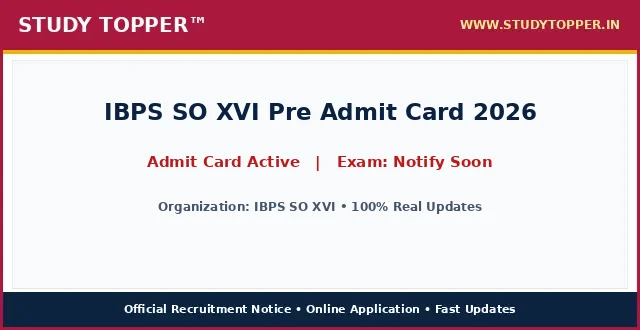
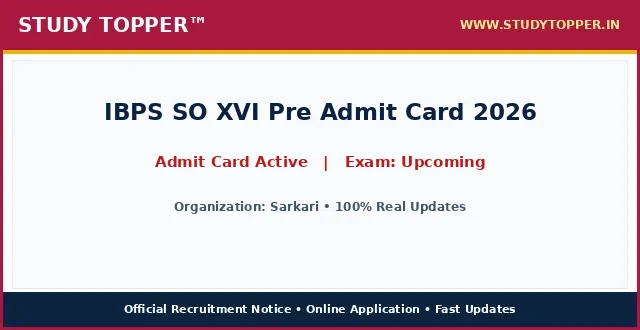
chore(lifecycle): daily auto-sort vacancies and update active dates

Changed region(s): [[0.2188, 0.4545, 0.7812, 0.5152], [0.25, 0.6061, 0.75, 0.6667]]

diff --git a/pages/ibps-so-xvi-2026.html b/pages/ibps-so-xvi-2026.html
@@ -987,12 +987,12 @@ ul.wp-block-latest-posts a:hover {
 <main class="site-main" id="main">
 <div class="gb-container gb-container-b39c368c">
 <h1 class="gb-headline gb-headline-e52a0102 gb-headline-text" style="font-size: 22px; font-weight: 700; color: #0000cd; text-align: left; margin: 8px 0 4px 0; line-height: 1.3; width: 100%; font-family: '-apple-system, BlinkMacSystemFont, 'Segoe UI', Roboto, 'Helvetica Neue', Arial, sans-serif', Times, serif, Hind, sans-serif;">IBPS SO XVI Pre Admit Card 2026</h1>
-<div class="gb-container gb-container-659bd175"><p style="color: #cd0808; font-weight: 700; font-size: 15px; margin: 2px 0 7px 0; text-align: left; font-family: '-apple-system, BlinkMacSystemFont, 'Segoe UI', Roboto, 'Helvetica Neue', Arial, sans-serif', Times, serif, Hind, sans-serif;">Post Date: August 21, 2026 07:50 PM</p></div>
-<p class="gb-headline gb-headline-550ae316 short_Details gb-headline-text" style="width: 100%; max-width: 100%; font-size: 16.8px; line-height: 1.55; color: #000000; text-align: justify; text-justify: inter-word; margin: 8px 0 14px 0; display: block; font-family: '-apple-system, BlinkMacSystemFont, 'Segoe UI', Roboto, 'Helvetica Neue', Arial, sans-serif', Times, serif, Hind, sans-serif;"><strong style="color: #0000cd;">IBPS SO XVI</strong> has officially released the exam city intimation slip and <strong style="color: #cd0808;">IBPS SO XVI Pre Admit Card 2026</strong> for eligible registered candidates. Aspirants appearing for the upcoming computer-based test can download their e-call letters by entering their registration credentials. The hall ticket contains vital examination details including shift timings, reporting hours, test venue coordinates, and exam day guidelines. Candidates must download and print their admit cards early to avoid last-minute server congestion and carry valid photo identification.</p>
+<div class="gb-container gb-container-659bd175"><p style="color: #cd0808; font-weight: 700; font-size: 15px; margin: 2px 0 7px 0; text-align: left; font-family: '-apple-system, BlinkMacSystemFont, 'Segoe UI', Roboto, 'Helvetica Neue', Arial, sans-serif', Times, serif, Hind, sans-serif;">Post Date: August 22, 2026 11:53 AM</p></div>
+<p class="gb-headline gb-headline-550ae316 short_Details gb-headline-text" style="width: 100%; max-width: 100%; font-size: 16.8px; line-height: 1.55; color: #000000; text-align: justify; text-justify: inter-word; margin: 8px 0 14px 0; display: block; font-family: '-apple-system, BlinkMacSystemFont, 'Segoe UI', Roboto, 'Helvetica Neue', Arial, sans-serif', Times, serif, Hind, sans-serif;"><strong style="color: #0000cd;">Sarkari</strong> has officially released the exam city intimation slip and <strong style="color: #cd0808;">IBPS SO XVI Pre Admit Card 2026</strong> for eligible registered candidates. Aspirants appearing for the upcoming computer-based test can download their e-call letters by entering their registration credentials. The hall ticket contains vital examination details including shift timings, reporting hours, test venue coordinates, and exam day guidelines. Candidates must download and print their admit cards early to avoid last-minute server congestion and carry valid photo identification.</p>
 <div class="gb-container gb-container-9849916c"><div class="social-buttons-compact" style="display: flex; justify-content: flex-start; align-items: center; gap: 10px; margin: 10px 0 16px 0; width: 100%;"><a class="social-btn-compact wa" href="https://whatsapp.com/channel/0029Va9xyz" rel="noopener" style="background-color: #00d084; color: #ffffff; padding: 10px 18px; border-radius: 4px; text-decoration: none; font-weight: bold; font-size: 15.5px; display: inline-flex; align-items: center; justify-content: center; height: auto;" target="_blank">WhatsApp</a><a class="social-btn-compact tg" href="https://t.me/studytopperofficial" rel="noopener" style="background-color: #0088cc; color: #ffffff; padding: 10px 18px; border-radius: 4px; text-decoration: none; font-weight: bold; font-size: 15.5px; display: inline-flex; align-items: center; justify-content: center; height: auto;" target="_blank">Telegram</a></div></div>
 <div class="gb-container gb-container-f58e6ca1" style="border: 2px solid #5b032f; border-radius: 4px; overflow: hidden; margin: 15px 0 20px 0; background-color: #ffffff; width: 100%; box-sizing: border-box;">
 <h2 class="gb-headline gb-headline-2ca5a791 gb-headline-text" style="font-size: 16px; font-weight: 700; text-align: center; color: #ef0303; line-height: 1.3; padding: 6px 4px; margin: 0; background: #ffffff; font-family: '-apple-system, BlinkMacSystemFont, 'Segoe UI', Roboto, 'Helvetica Neue', Arial, sans-serif', Times, serif, Hind, sans-serif;">IBPS SO XVI Pre Admit Card 2026 &ndash; Latest Details &amp; Updates</h2>
-<h3 class="gb-headline gb-headline-7d5f86e8 gb-headline-text" style="font-size: 16px; font-weight: 600; text-align: center; color: #009703; line-height: 1.25; margin: 0; padding: 2px 4px 6px 4px; background: #ffffff; font-family: '-apple-system, BlinkMacSystemFont, 'Segoe UI', Roboto, 'Helvetica Neue', Arial, sans-serif', Times, serif, Hind, sans-serif;">IBPS SO XVI : Details &amp; Summary</h3>
+<h3 class="gb-headline gb-headline-7d5f86e8 gb-headline-text" style="font-size: 16px; font-weight: 600; text-align: center; color: #009703; line-height: 1.25; margin: 0; padding: 2px 4px 6px 4px; background: #ffffff; font-family: '-apple-system, BlinkMacSystemFont, 'Segoe UI', Roboto, 'Helvetica Neue', Arial, sans-serif', Times, serif, Hind, sans-serif;">Sarkari : Details &amp; Summary</h3>
 <p class="gb-headline gb-headline-79adf169 gb-headline-text" style="margin: 0 0 6px 0; font-family: '-apple-system, BlinkMacSystemFont, 'Segoe UI', Roboto, 'Helvetica Neue', Arial, sans-serif', Times, serif, Hind, sans-serif; text-align: center; font-size: 18px; font-weight: 700;"><a href="/" style="color: #0000ff; text-decoration: underline;">StudyTopper.in</a></p>
 
 <style id="st-post-boxes-responsive-css">
@@ -1025,7 +1025,7 @@ ul.wp-block-latest-posts a:hover {
     <div style="background-color: #5b032f; color: #ffffff; padding: 8px 10px; font-size: 20px; font-weight: 700; text-align: center; font-family: '-apple-system, BlinkMacSystemFont, 'Segoe UI', Roboto, 'Helvetica Neue', Arial, sans-serif', Times, serif, Hind, sans-serif;">Admit Card &amp; Exam Dates</div>
     <div style="padding: 12px 14px; background-color: #ffffff;">
       <ul style="padding-left: 20px; margin: 0; list-style-type: disc; text-align: left; font-size: 14pt; line-height: 1.6; font-family: '-apple-system, BlinkMacSystemFont, 'Segoe UI', Roboto, 'Helvetica Neue', Arial, sans-serif', Times, serif, Hind, sans-serif;">
-        <li><span style="font-size: 14pt;">Application Start Date : <strong>01 July 2026</strong></span></li><li><span style="font-size: 14pt;">Registration Last Date : <span style="color: #ff0000;"><strong>26 July 2026 Extended</strong></span></span></li><li><span style="font-size: 14pt;">Pay Exam Fee Last Date : <span style="color: #ff0000;"><strong>26 July 2026</strong></span></span></li><li><span style="font-size: 14pt;">Correction Date : <strong>29 – 30 July 2026</strong></span></li><li><span style="font-size: 14pt;">Pre Exam Date : <strong>August 2026</strong></span></li><li><span style="font-size: 14pt;">Pre Exam Admit Card : <strong>20 August 2026 Available Now</strong></span></li>
+        
       </ul>
     </div>
   </div>
@@ -1034,7 +1034,7 @@ ul.wp-block-latest-posts a:hover {
     <div style="background-color: #5b032f; color: #ffffff; padding: 8px 10px; font-size: 20px; font-weight: 700; text-align: center; font-family: '-apple-system, BlinkMacSystemFont, 'Segoe UI', Roboto, 'Helvetica Neue', Arial, sans-serif', Times, serif, Hind, sans-serif;">Application / Exam Fee</div>
     <div style="padding: 12px 14px; background-color: #ffffff;">
       <ul style="padding-left: 20px; margin: 0; list-style-type: disc; text-align: left; font-size: 14pt; line-height: 1.6; font-family: '-apple-system, BlinkMacSystemFont, 'Segoe UI', Roboto, 'Helvetica Neue', Arial, sans-serif', Times, serif, Hind, sans-serif;">
-        <li><span style="font-size: 14pt;">For General, OBC, EWS : <strong>Rs 850/-</strong></span></li><li><span style="font-size: 14pt;">For SC, ST, PH : <strong>Rs 175/-</strong></span></li><li><span style="font-size: 14pt;">Payment Mode (Online) : <strong>You can make the payment using the following methods: Debit Card Credit Card Internet Banking IMPS Cash Card / Mobile Wallet</strong></span></li><li><span style="font-size: 14pt;">Candidates must have a 4 : <strong>year Bachelor’s degree in Agriculture, Horticulture, Animal Husbandry, Veterinary Science, Dairy Science, Fishery Science, Pisciculture, Agricultural Marketing & Cooperation, Cooperation & Banking, Agro-Forestry, Forestry, Agricultural Biotechnology, B.Tech. Biotechnology, Food Science, Agriculture Business Management, Food Technology, Dairy Technology, Agricultural Engineering, Sericulture, or Fisheries Engineering from a recognized university or institution.</strong></span></li><li><span style="font-size: 14pt;">Candidates must have a Graduation degree along with a full : <strong>time 2-year MMS (Marketing), MBA (Marketing), or PGDBA/PGDBM/PGPM/PGDM with specialization in Marketing from a recognized university or institution.</strong></span></li>
+        <li><span style="font-size: 14pt;">Bihar Police BPSSC Sub Inspector SI Prohibition Result 2026 Advt. No. : <strong>03/2026</strong></span></li><li><span style="font-size: 14pt;">UP Scholarship Online Form 2026 : <strong>2027</strong></span></li>
       </ul>
       <div style="margin-top: 10px; font-size: 14pt; line-height: 1.5; color: #000000; border-top: 1px dashed #ccc; padding-top: 8px; font-family: '-apple-system, BlinkMacSystemFont, 'Segoe UI', Roboto, 'Helvetica Neue', Arial, sans-serif', Times, serif, Hind, sans-serif;">
         <strong>Mode of Payment / Access:</strong> Online via Net Banking, Debit Card, Credit Card, UPI or Free Candidate Portal.
@@ -1047,10 +1047,10 @@ ul.wp-block-latest-posts a:hover {
 <div class="st-grid-row" style="display: flex; flex-wrap: wrap; width: 100%; border-top: 2px solid #5b032f; margin: 0; padding: 0; box-sizing: border-box;">
   <!-- Left Col: Age Limits -->
   <div class="st-col-half st-col-border-right" style="box-sizing: border-box; vertical-align: top;">
-    <div style="background-color: #046132; color: #ffffff; padding: 8px 10px; font-size: 17px; font-weight: 700; text-align: center; font-family: '-apple-system, BlinkMacSystemFont, 'Segoe UI', Roboto, 'Helvetica Neue', Arial, sans-serif', Times, serif, Hind, sans-serif;">IBPS SO XVI : Age Limits As On 01 August 2026</div>
+    <div style="background-color: #046132; color: #ffffff; padding: 8px 10px; font-size: 17px; font-weight: 700; text-align: center; font-family: '-apple-system, BlinkMacSystemFont, 'Segoe UI', Roboto, 'Helvetica Neue', Arial, sans-serif', Times, serif, Hind, sans-serif;">Sarkari : Age Limits As On 01 August 2026</div>
     <div style="padding: 12px 14px; background-color: #ffffff;">
       <ul style="padding-left: 20px; margin: 0; list-style-type: disc; text-align: left; font-size: 14pt; line-height: 1.6; font-family: '-apple-system, BlinkMacSystemFont, 'Segoe UI', Roboto, 'Helvetica Neue', Arial, sans-serif', Times, serif, Hind, sans-serif;">
-        <li><span style="font-size: 14pt;">Minimum Age : <strong>20 Years</strong></span></li><li><span style="font-size: 14pt;">Maximum Age : <strong>30 Years</strong></span></li>
+        
       </ul>
     </div>
   </div>
@@ -1058,7 +1058,7 @@ ul.wp-block-latest-posts a:hover {
   <div class="st-col-half" style="box-sizing: border-box; vertical-align: top;">
     <div style="background-color: #f53c00; color: #ffffff; padding: 8px 10px; font-size: 20px; font-weight: 700; text-align: center; font-family: '-apple-system, BlinkMacSystemFont, 'Segoe UI', Roboto, 'Helvetica Neue', Arial, sans-serif', Times, serif, Hind, sans-serif;">Hall Ticket Status</div>
     <div style="padding: 24px 10px; background-color: #ffffff; text-align: center;">
-      <span style="font-size: 28px; font-weight: 800; color: #000000; font-family: '-apple-system, BlinkMacSystemFont, 'Segoe UI', Roboto, 'Helvetica Neue', Arial, sans-serif', Times, serif, Hind, sans-serif;">1035 posts</span>
+      <span style="font-size: 28px; font-weight: 800; color: #000000; font-family: '-apple-system, BlinkMacSystemFont, 'Segoe UI', Roboto, 'Helvetica Neue', Arial, sans-serif', Times, serif, Hind, sans-serif;">545 Post</span>
     </div>
   </div>
 </div>
@@ -1070,19 +1070,7 @@ ul.wp-block-latest-posts a:hover {
 <div class="gb-container gb-container-ec1f6e4c">
 <h2 class="gb-headline gb-headline-c7683bda gb-headline-text" style="font-size: 24px; font-weight: 800; text-align: center; color: #ef0303; line-height: 1.35; margin: 20px 0 12px 0; padding: 6px 4px; font-family: '-apple-system, BlinkMacSystemFont, 'Segoe UI', Roboto, 'Helvetica Neue', Arial, sans-serif', Times, serif, Hind, sans-serif;">IBPS SO XVI Pre Admit Card 2026 : Key Overview &amp; Matrix</h2>
 <div class="gb-headline gb-headline-60ccea19 gb-headline-text">
-<table style="border-collapse: collapse; width: 100%; height: 150px;">
-<tbody>
-<tr style="height: 25px;">
-<td colspan="2" style="width: 50%; text-align: center; height: 25px;"><span style="background-color: #000080; color: #ffffff; font-size: 14pt;"><strong> IBPS SO XVI : Admit Card &amp; Exam City Intimation Details </strong></span></td>
-</tr>
-<tr style="height: 25px;">
-<td style="width: 50%; height: 25px; text-align: center;"><span style="font-size: 14pt;"><strong>Category / Particulars</strong></span></td>
-<td style="width: 50%; height: 25px; text-align: center;"><span style="font-size: 14pt;"><strong>Count / Status</strong></span></td>
-</tr>
-<tr><td style="text-align: center;">Hall Ticket Status</td><td style="text-align: center; font-weight: normal; color: inherit;">Available for Download</td></tr><tr><td style="text-align: center;">Exam Mode</td><td style="text-align: center; font-weight: normal; color: inherit;">Computer Based Test (CBT)</td></tr><tr><td style="text-align: center;">Total Posts</td><td style="text-align: center; font-weight: bold; color: #ff0000;">1035 posts</td></tr>
-</tbody>
-</table>
-<p>&nbsp;</p>
+
 <table style="border-collapse: collapse; width: 100%;">
 <tbody>
 <tr>
@@ -1091,32 +1079,13 @@ ul.wp-block-latest-posts a:hover {
 <th style="background-color: #f53c00; color: #ffffff; padding: 6px 10px; text-align: center; border: 1px solid #d35400; font-size: 15px; font-weight: 700; font-family: '-apple-system, BlinkMacSystemFont, 'Segoe UI', Roboto, 'Helvetica Neue', Arial, sans-serif', Times, serif, Hind, sans-serif;">Educational Eligibility Criteria</th>
 </tr>
 <tr>
-<td style="padding: 8px; border: 1px solid #ddd; font-weight: bold;">IT Officer (Scale-I)</td>
-<td style="padding: 8px; border: 1px solid #ddd; text-align: center; font-weight: bold;">301</td>
-<td style="padding: 8px; border: 1px solid #ddd;">Candidates must have a 4-year Engineering/Technology degree in Computer Science, Computer Applications, Information Technology, Electronics, Electronics & Telecommunications, Electronics & Communication, or Electronics & Instrumentation. Alternatively, candidates with a Postgraduate degree in the relevant disciplines or those who have passed the DOEACC ‘B’ Level examination are also eligible.</td>
-</tr><tr>
-<td style="padding: 8px; border: 1px solid #ddd; font-weight: bold;">Agricultural Field Officer (Scale I)</td>
-<td style="padding: 8px; border: 1px solid #ddd; text-align: center; font-weight: bold;">190</td>
-<td style="padding: 8px; border: 1px solid #ddd;">Candidates must have a 4-year Bachelor’s degree in Agriculture, Horticulture, Animal Husbandry, Veterinary Science, Dairy Science, Fishery Science, Pisciculture, Agricultural Marketing & Cooperation, Cooperation & Banking, Agro-Forestry, Forestry, Agricultural Biotechnology, B.Tech. Biotechnology, Food Science, Agriculture Business Management, Food Technology, Dairy Technology, Agricultural Engineering, Sericulture, or Fisheries Engineering from a recognized university or institution.</td>
-</tr><tr>
-<td style="padding: 8px; border: 1px solid #ddd; font-weight: bold;">Rajbhasha Adhikari (Scale I)</td>
-<td style="padding: 8px; border: 1px solid #ddd; text-align: center; font-weight: bold;">89</td>
-<td style="padding: 8px; border: 1px solid #ddd;">Candidates must have a Postgraduate degree in Hindi with English as a subject at the graduation level, or a Postgraduate degree in Sanskrit with both Hindi and English as subjects at the graduation level from a recognized university.</td>
-</tr><tr>
-<td style="padding: 8px; border: 1px solid #ddd; font-weight: bold;">Law Officer (Scale I)</td>
-<td style="padding: 8px; border: 1px solid #ddd; text-align: center; font-weight: bold;">105</td>
-<td style="padding: 8px; border: 1px solid #ddd;">Candidates must have a Bachelor’s degree in Law (LL.B.) from a recognized university and be enrolled as an Advocate with the Bar Council.</td>
-</tr><tr>
-<td style="padding: 8px; border: 1px solid #ddd; font-weight: bold;">HR/Personnel Officer (Scale I)</td>
-<td style="padding: 8px; border: 1px solid #ddd; text-align: center; font-weight: bold;">60</td>
-<td style="padding: 8px; border: 1px solid #ddd;">Candidates must have a Graduation degree along with a full-time 2-year Postgraduate Degree or Postgraduate Diploma in Personnel Management, Industrial Relations, Human Resources (HR), Human Resource Development (HRD), Social Work, or Labour Law from a recognized university or institution.</td>
-</tr><tr>
-<td style="padding: 8px; border: 1px solid #ddd; font-weight: bold;">Marketing Officer (Scale I)</td>
-<td style="padding: 8px; border: 1px solid #ddd; text-align: center; font-weight: bold;">00</td>
-<td style="padding: 8px; border: 1px solid #ddd;">Candidates must have a Graduation degree along with a full-time 2-year MMS (Marketing), MBA (Marketing), or PGDBA/PGDBM/PGPM/PGDM with specialization in Marketing from a recognized university or institution.</td>
+<td style="padding: 8px; border: 1px solid #ddd; font-weight: bold;">Sarkari Recruitment</td>
+<td style="padding: 8px; border: 1px solid #ddd; text-align: center; font-weight: bold;">545 Post</td>
+<td style="padding: 8px; border: 1px solid #ddd;">Please refer to the official notification linked below for detailed educational qualifications.</td>
 </tr>
 </tbody>
 </table>
+<p>&nbsp;</p>
 <p>&nbsp;</p>
 
 
@@ -1124,10 +1093,10 @@ ul.wp-block-latest-posts a:hover {
 <table style="border-collapse: collapse; width: 100%;">
 <tbody>
 <tr>
-<td style="width: 100%; text-align: center;"><span style="background-color: #000080; color: #ffffff; font-size: 14pt; font-weight: bold; display: block; padding: 6px;"> How to Download IBPS SO XVI Admit Card 2026 &amp; Exam Day Instructions </span></td>
+<td style="width: 100%; text-align: center;"><span style="background-color: #000080; color: #ffffff; font-size: 14pt; font-weight: bold; display: block; padding: 6px;"> How to Download Sarkari Admit Card 2026 &amp; Exam Day Instructions </span></td>
 </tr>
 <tr>
-<td style="width: 100%;"><ol style="margin:0; padding-left:18px; text-align: left !important; list-style-position: outside !important"><li style="margin-bottom:6px; text-align: left !important;">Click on Download Admit Card link in Useful Important Links section below.</li><li style="margin-bottom:6px; text-align: left !important;">Enter registered User ID / Application Number and Date of Birth.</li><li style="margin-bottom:6px; text-align: left !important;">Click Login to open candidate hall ticket dashboard.</li><li style="margin-bottom:6px; text-align: left !important;">Check exam date, shift time, reporting hour, and examination center address.</li><li style="margin-bottom:6px; text-align: left !important;">Download E-Call letter PDF and print on clear A4 paper.</li><li style="margin-bottom:6px; text-align: left !important;">Carry printed admit card along with original photo ID proof to examination hall.</li></ol></td>
+<td style="width: 100%;"><ol style="margin:0; padding-left:18px; text-align: left !important; list-style-position: outside !important"><li style="margin-bottom:6px; text-align: left !important;">Scroll down to the 'Important Links' section on this page.</li><li style="margin-bottom:6px; text-align: left !important;">Click on the direct link to download/check your status.</li><li style="margin-bottom:6px; text-align: left !important;">Enter your required login credentials such as Registration Number, Roll Number, or Date of Birth.</li><li style="margin-bottom:6px; text-align: left !important;">Click on submit to view your status.</li><li style="margin-bottom:6px; text-align: left !important;">Download and take a printout for future reference.</li></ol></td>
 </tr>
 </tbody>
 </table>
@@ -1135,12 +1104,12 @@ ul.wp-block-latest-posts a:hover {
 <table style="border-collapse: collapse; width: 100%;">
 <tbody>
 <tr>
-<td style="width: 100%; text-align: center;"><span style="background-color: #000080; color: #ffffff; font-size: 14pt;"><strong><span style="color: #ffffff;"> IBPS SO XVI Recruitment 2026 : Mode Of Selection </span></strong></span></td>
+<td style="width: 100%; text-align: center;"><span style="background-color: #000080; color: #ffffff; font-size: 14pt;"><strong><span style="color: #ffffff;"> Sarkari Recruitment 2026 : Mode Of Selection </span></strong></span></td>
 </tr>
 <tr>
 <td style="width: 100%;">
 <ul class="wp-block-list" style="text-align: left !important; list-style-position: outside !important">
-<li style="text-align: left !important;"><span style="font-size: 14pt;"><strong>Computer Based Examination (CBE) / Evaluation</strong></span></li><li style="text-align: left !important;"><span style="font-size: 14pt;"><strong>Document Verification</strong></span></li><li style="text-align: left !important;"><span style="font-size: 14pt;"><strong>Final Merit Allotment</strong></span></li>
+<li style="text-align: left !important;"><span style="font-size: 14pt;"><strong>Computer Based Examination (CBE) / Written Exam</strong></span></li><li style="text-align: left !important;"><span style="font-size: 14pt;"><strong>Document Verification</strong></span></li><li style="text-align: left !important;"><span style="font-size: 14pt;"><strong>Medical Examination</strong></span></li>
 </ul>
 </td>
 </tr>
@@ -1175,82 +1144,26 @@ ul.wp-block-latest-posts a:hover {
 
 <tr style="border-bottom: 1px solid #000000; background-color: #fff37a;">
 <td style="width: 50%; padding: 14px 16px; border-right: 1px solid #000000; text-align: center;">
-<span style="font-size: 19px; font-weight: 800; color: #000000; font-family: '-apple-system, BlinkMacSystemFont, 'Segoe UI', Roboto, 'Helvetica Neue', Arial, sans-serif', Times, serif, Hind, sans-serif;">Download Pre Admit Card</span>
+<span style="font-size: 19px; font-weight: 800; color: #000000; font-family: '-apple-system, BlinkMacSystemFont, 'Segoe UI', Roboto, 'Helvetica Neue', Arial, sans-serif', Times, serif, Hind, sans-serif;">Download Admit Card / Hall Ticket</span>
 </td>
 <td style="width: 50%; padding: 14px 16px; text-align: center;">
-<span style="font-size: 20px; font-weight: 800; font-family: '-apple-system, BlinkMacSystemFont, 'Segoe UI', Roboto, 'Helvetica Neue', Arial, sans-serif', Times, serif, Hind, sans-serif;"><a href="https://ibpsreg.ibps.in/crpspxvimy26/oecla_aug26/login.php?appid=b4efe9284e9d84a16019c7ca6ca9547b" aria-label="Click Here for Download Pre Admit Card - IBPS SO XVI Pre Admit Card 2026" rel="noopener noreferrer" style="color: #0000ef; font-weight: 800; text-decoration: none;" target="_blank">Click Here</a></span>
+<span style="font-size: 20px; font-weight: 800; font-family: '-apple-system, BlinkMacSystemFont, 'Segoe UI', Roboto, 'Helvetica Neue', Arial, sans-serif', Times, serif, Hind, sans-serif;"><a href="" aria-label="Click Here for Download Admit Card / Hall Ticket - IBPS SO XVI Pre Admit Card 2026" rel="noopener noreferrer" style="color: #0000ef; font-weight: 800; text-decoration: none;" target="_blank">Click Here</a></span>
 </td>
 </tr>
 <tr style="border-bottom: 1px solid #000000; background-color: #fff37a;">
-<td style="width: 50%; padding: 14px 16px; border-right: 1px solid #000000; text-align: center;">
-<span style="font-size: 19px; font-weight: 800; color: #000000; font-family: '-apple-system, BlinkMacSystemFont, 'Segoe UI', Roboto, 'Helvetica Neue', Arial, sans-serif', Times, serif, Hind, sans-serif;">Online Correction Link</span>
-</td>
-<td style="width: 50%; padding: 14px 16px; text-align: center;">
-<span style="font-size: 20px; font-weight: 800; font-family: '-apple-system, BlinkMacSystemFont, 'Segoe UI', Roboto, 'Helvetica Neue', Arial, sans-serif', Times, serif, Hind, sans-serif;"><a href="https://ibpsreg.ibps.in/crpspxvimy26/" aria-label="Click Here for Online Correction Link - IBPS SO XVI Pre Admit Card 2026" rel="noopener noreferrer" style="color: #0000ef; font-weight: 800; text-decoration: none;" target="_blank">Click Here</a></span>
-</td>
-</tr>
-<tr style="border-bottom: 1px solid #000000; background-color: #fff37a;">
-<td style="width: 50%; padding: 14px 16px; border-right: 1px solid #000000; text-align: center;">
-<span style="font-size: 19px; font-weight: 800; color: #000000; font-family: '-apple-system, BlinkMacSystemFont, 'Segoe UI', Roboto, 'Helvetica Neue', Arial, sans-serif', Times, serif, Hind, sans-serif;">Check Correction Notice</span>
-</td>
-<td style="width: 50%; padding: 14px 16px; text-align: center;">
-<span style="font-size: 20px; font-weight: 800; font-family: '-apple-system, BlinkMacSystemFont, 'Segoe UI', Roboto, 'Helvetica Neue', Arial, sans-serif', Times, serif, Hind, sans-serif;"><a href="http://sarkariresult.com.cm/wp-content/uploads/2026/07/IMPORTANT-NOTICE_Edit_Window_28.07.26.pdf" aria-label="Click Here for Check Correction Notice - IBPS SO XVI Pre Admit Card 2026" rel="noopener noreferrer" style="color: #0000ef; font-weight: 800; text-decoration: none;" target="_blank">Click Here</a></span>
-</td>
-</tr>
-<tr style="border-bottom: 1px solid #000000; background-color: #fff37a;">
-<td style="width: 50%; padding: 14px 16px; border-right: 1px solid #000000; text-align: center;">
-<span style="font-size: 19px; font-weight: 800; color: #000000; font-family: '-apple-system, BlinkMacSystemFont, 'Segoe UI', Roboto, 'Helvetica Neue', Arial, sans-serif', Times, serif, Hind, sans-serif;">Apply Online</span>
-</td>
-<td style="width: 50%; padding: 14px 16px; text-align: center;">
-<span style="font-size: 20px; font-weight: 800; font-family: '-apple-system, BlinkMacSystemFont, 'Segoe UI', Roboto, 'Helvetica Neue', Arial, sans-serif', Times, serif, Hind, sans-serif;"><a href="https://ibpsreg.ibps.in/crpspxvimy26/" aria-label="Click Here for Apply Online - IBPS SO XVI Pre Admit Card 2026" rel="noopener noreferrer" style="color: #0000ef; font-weight: 800; text-decoration: none;" target="_blank">Click Here</a></span>
-</td>
-</tr>
-<tr style="border-bottom: 1px solid #000000; background-color: #fff37a;">
-<td style="width: 50%; padding: 14px 16px; border-right: 1px solid #000000; text-align: center;">
-<span style="font-size: 19px; font-weight: 800; color: #000000; font-family: '-apple-system, BlinkMacSystemFont, 'Segoe UI', Roboto, 'Helvetica Neue', Arial, sans-serif', Times, serif, Hind, sans-serif;">Check Date Extend Notice</span>
-</td>
-<td style="width: 50%; padding: 14px 16px; text-align: center;">
-<span style="font-size: 20px; font-weight: 800; font-family: '-apple-system, BlinkMacSystemFont, 'Segoe UI', Roboto, 'Helvetica Neue', Arial, sans-serif', Times, serif, Hind, sans-serif;"><a href="https://www.ibps.in/wp-content/uploads/Corrigendum-for-extension_CRP-XVI.pdf" aria-label="Click Here for Check Date Extend Notice - IBPS SO XVI Pre Admit Card 2026" rel="noopener noreferrer" style="color: #0000ef; font-weight: 800; text-decoration: none;" target="_blank">Click Here</a></span>
-</td>
-</tr>
-<tr style="border-bottom: 1px solid #000000; background-color: #fff37a;">
-<td style="width: 50%; padding: 14px 16px; border-right: 1px solid #000000; text-align: center;">
-<span style="font-size: 19px; font-weight: 800; color: #000000; font-family: '-apple-system, BlinkMacSystemFont, 'Segoe UI', Roboto, 'Helvetica Neue', Arial, sans-serif', Times, serif, Hind, sans-serif;">Check Vacancy Increased Notice</span>
-</td>
-<td style="width: 50%; padding: 14px 16px; text-align: center;">
-<span style="font-size: 20px; font-weight: 800; font-family: '-apple-system, BlinkMacSystemFont, 'Segoe UI', Roboto, 'Helvetica Neue', Arial, sans-serif', Times, serif, Hind, sans-serif;"><a href="https://www.ibps.in/wp-content/uploads/Annexure-I_Updated_As-on-20.07.2026.pdf" aria-label="Click Here for Check Vacancy Increased Notice - IBPS SO XVI Pre Admit Card 2026" rel="noopener noreferrer" style="color: #0000ef; font-weight: 800; text-decoration: none;" target="_blank">Click Here</a></span>
-</td>
-</tr>
-<tr style="border-bottom: 1px solid #000000; background-color: #fff37a;">
-<td style="width: 50%; padding: 14px 16px; border-right: 1px solid #000000; text-align: center;">
-<span style="font-size: 19px; font-weight: 800; color: #000000; font-family: '-apple-system, BlinkMacSystemFont, 'Segoe UI', Roboto, 'Helvetica Neue', Arial, sans-serif', Times, serif, Hind, sans-serif;">Check Short Notice</span>
-</td>
-<td style="width: 50%; padding: 14px 16px; text-align: center;">
-<span style="font-size: 20px; font-weight: 800; font-family: '-apple-system, BlinkMacSystemFont, 'Segoe UI', Roboto, 'Helvetica Neue', Arial, sans-serif', Times, serif, Hind, sans-serif;"><a href="http://sarkariresult.com.cm/wp-content/uploads/2026/06/IBPS-PO-MT-2026-Short-Notice.jpg" aria-label="Click Here for Check Short Notice - IBPS SO XVI Pre Admit Card 2026" rel="noopener noreferrer" style="color: #0000ef; font-weight: 800; text-decoration: none;" target="_blank">Click Here</a></span>
-</td>
-</tr>
-<tr style="border-bottom: 1px solid #000000; background-color: #fff37a;">
-<td style="width: 50%; padding: 14px 16px; border-right: 1px solid #000000; text-align: center;">
-<span style="font-size: 19px; font-weight: 800; color: #000000; font-family: '-apple-system, BlinkMacSystemFont, 'Segoe UI', Roboto, 'Helvetica Neue', Arial, sans-serif', Times, serif, Hind, sans-serif;">Check IBPS Notification</span>
-</td>
-<td style="width: 50%; padding: 14px 16px; text-align: center;">
-<span style="font-size: 20px; font-weight: 800; font-family: '-apple-system, BlinkMacSystemFont, 'Segoe UI', Roboto, 'Helvetica Neue', Arial, sans-serif', Times, serif, Hind, sans-serif;"><a href="https://www.ibps.in/wp-content/uploads/Detailed-Notification-CRP-SPL-XVI_Final_V1_30.06.2026.pdf" aria-label="Click Here for Check IBPS Notification - IBPS SO XVI Pre Admit Card 2026" rel="noopener noreferrer" style="color: #0000ef; font-weight: 800; text-decoration: none;" target="_blank">Click Here</a></span>
-</td>
-</tr>
-<tr style="border-bottom: 1px solid #000000; background-color: #fff37a;">
-<td style="width: 50%; padding: 14px 16px; border-right: 1px solid #000000; text-align: center;">
-<span style="font-size: 19px; font-weight: 800; color: #000000; font-family: '-apple-system, BlinkMacSystemFont, 'Segoe UI', Roboto, 'Helvetica Neue', Arial, sans-serif', Times, serif, Hind, sans-serif;">IBPS SO 15th Official Website</span>
-</td>
-<td style="width: 50%; padding: 14px 16px; text-align: center;">
-<span style="font-size: 20px; font-weight: 800; font-family: '-apple-system, BlinkMacSystemFont, 'Segoe UI', Roboto, 'Helvetica Neue', Arial, sans-serif', Times, serif, Hind, sans-serif;"><a href="https://www.ibps.in/" aria-label="Click Here for IBPS SO 15th Official Website - IBPS SO XVI Pre Admit Card 2026" rel="noopener noreferrer" style="color: #0000ef; font-weight: 800; text-decoration: none;" target="_blank">Click Here</a></span>
-</td>
-</tr>
-<tr style=" background-color: #fff37a;">
 <td style="width: 50%; padding: 14px 16px; border-right: 1px solid #000000; text-align: center;">
 <span style="font-size: 19px; font-weight: 800; color: #000000; font-family: '-apple-system, BlinkMacSystemFont, 'Segoe UI', Roboto, 'Helvetica Neue', Arial, sans-serif', Times, serif, Hind, sans-serif;">Check Sarkari Result</span>
 </td>
 <td style="width: 50%; padding: 14px 16px; text-align: center;">
 <span style="font-size: 20px; font-weight: 800; font-family: '-apple-system, BlinkMacSystemFont, 'Segoe UI', Roboto, 'Helvetica Neue', Arial, sans-serif', Times, serif, Hind, sans-serif;"><a href="/" aria-label="Click Here for Check Sarkari Result - IBPS SO XVI Pre Admit Card 2026" rel="noopener noreferrer" style="color: #0000ef; font-weight: 800; text-decoration: none;" >Click Here</a></span>
+</td>
+</tr>
+<tr style=" background-color: #fff37a;">
+<td style="width: 50%; padding: 14px 16px; border-right: 1px solid #000000; text-align: center;">
+<span style="font-size: 19px; font-weight: 800; color: #000000; font-family: '-apple-system, BlinkMacSystemFont, 'Segoe UI', Roboto, 'Helvetica Neue', Arial, sans-serif', Times, serif, Hind, sans-serif;">Sarkari Website</span>
+</td>
+<td style="width: 50%; padding: 14px 16px; text-align: center;">
+<span style="font-size: 20px; font-weight: 800; font-family: '-apple-system, BlinkMacSystemFont, 'Segoe UI', Roboto, 'Helvetica Neue', Arial, sans-serif', Times, serif, Hind, sans-serif;"><a href="" aria-label="Click Here for Sarkari Website - IBPS SO XVI Pre Admit Card 2026" rel="noopener noreferrer" style="color: #0000ef; font-weight: 800; text-decoration: none;" target="_blank">Click Here</a></span>
 </td>
 </tr>
 </tbody>
@@ -1265,9 +1178,9 @@ ul.wp-block-latest-posts a:hover {
     <p style="margin: 0 0 4px 0;"><strong style="color: #000080;">Q1. When will IBPS SO XVI Pre Admit Card 2026 be released?</strong></p>
 <p style="margin: 0 0 16px 0; color: #333333; line-height: 1.6;">Ans. The admit card is released 4 to 7 days before the exam date on the official website.</p><p style="margin: 0 0 4px 0;"><strong style="color: #000080;">Q2. How to download IBPS SO XVI Pre Admit Card 2026 online?</strong></p>
 <p style="margin: 0 0 16px 0; color: #333333; line-height: 1.6;">Ans. Click on 'Download Admit Card' link in the Useful Links section, enter your Registration Number and DOB, and download your call letter PDF.</p><p style="margin: 0 0 4px 0;"><strong style="color: #000080;">Q3. What documents are required along with IBPS SO XVI Pre Admit Card 2026 at the exam center?</strong></p>
-<p style="margin: 0 0 16px 0; color: #333333; line-height: 1.6;">Ans. Candidates must carry a clear printed copy of the Admit Card, original Photo ID proof (Aadhaar/PAN/Voter ID), and 2 passport photos.</p><p style="margin: 0 0 4px 0;"><strong style="color: #000080;">Q4. Is exam city slip and admit card the same for IBPS SO XVI?</strong></p>
+<p style="margin: 0 0 16px 0; color: #333333; line-height: 1.6;">Ans. Candidates must carry a clear printed copy of the Admit Card, original Photo ID proof (Aadhaar/PAN/Voter ID), and 2 passport photos.</p><p style="margin: 0 0 4px 0;"><strong style="color: #000080;">Q4. Is exam city slip and admit card the same for Sarkari?</strong></p>
 <p style="margin: 0 0 16px 0; color: #333333; line-height: 1.6;">Ans. No, exam city slip intimates your allotted test city in advance, while the admit card contains exact examination venue and reporting time.</p><p style="margin: 0 0 4px 0;"><strong style="color: #000080;">Q5. What should I do if there is an error in IBPS SO XVI Pre Admit Card 2026?</strong></p>
-<p style="margin: 0 0 0 0; color: #333333; line-height: 1.6;">Ans. Immediately contact the official IBPS SO XVI helpline email/phone number mentioned in the official notification before exam day.</p>
+<p style="margin: 0 0 0 0; color: #333333; line-height: 1.6;">Ans. Immediately contact the official Sarkari helpline email/phone number mentioned in the official notification before exam day.</p>
   </div>
 </div>
 
